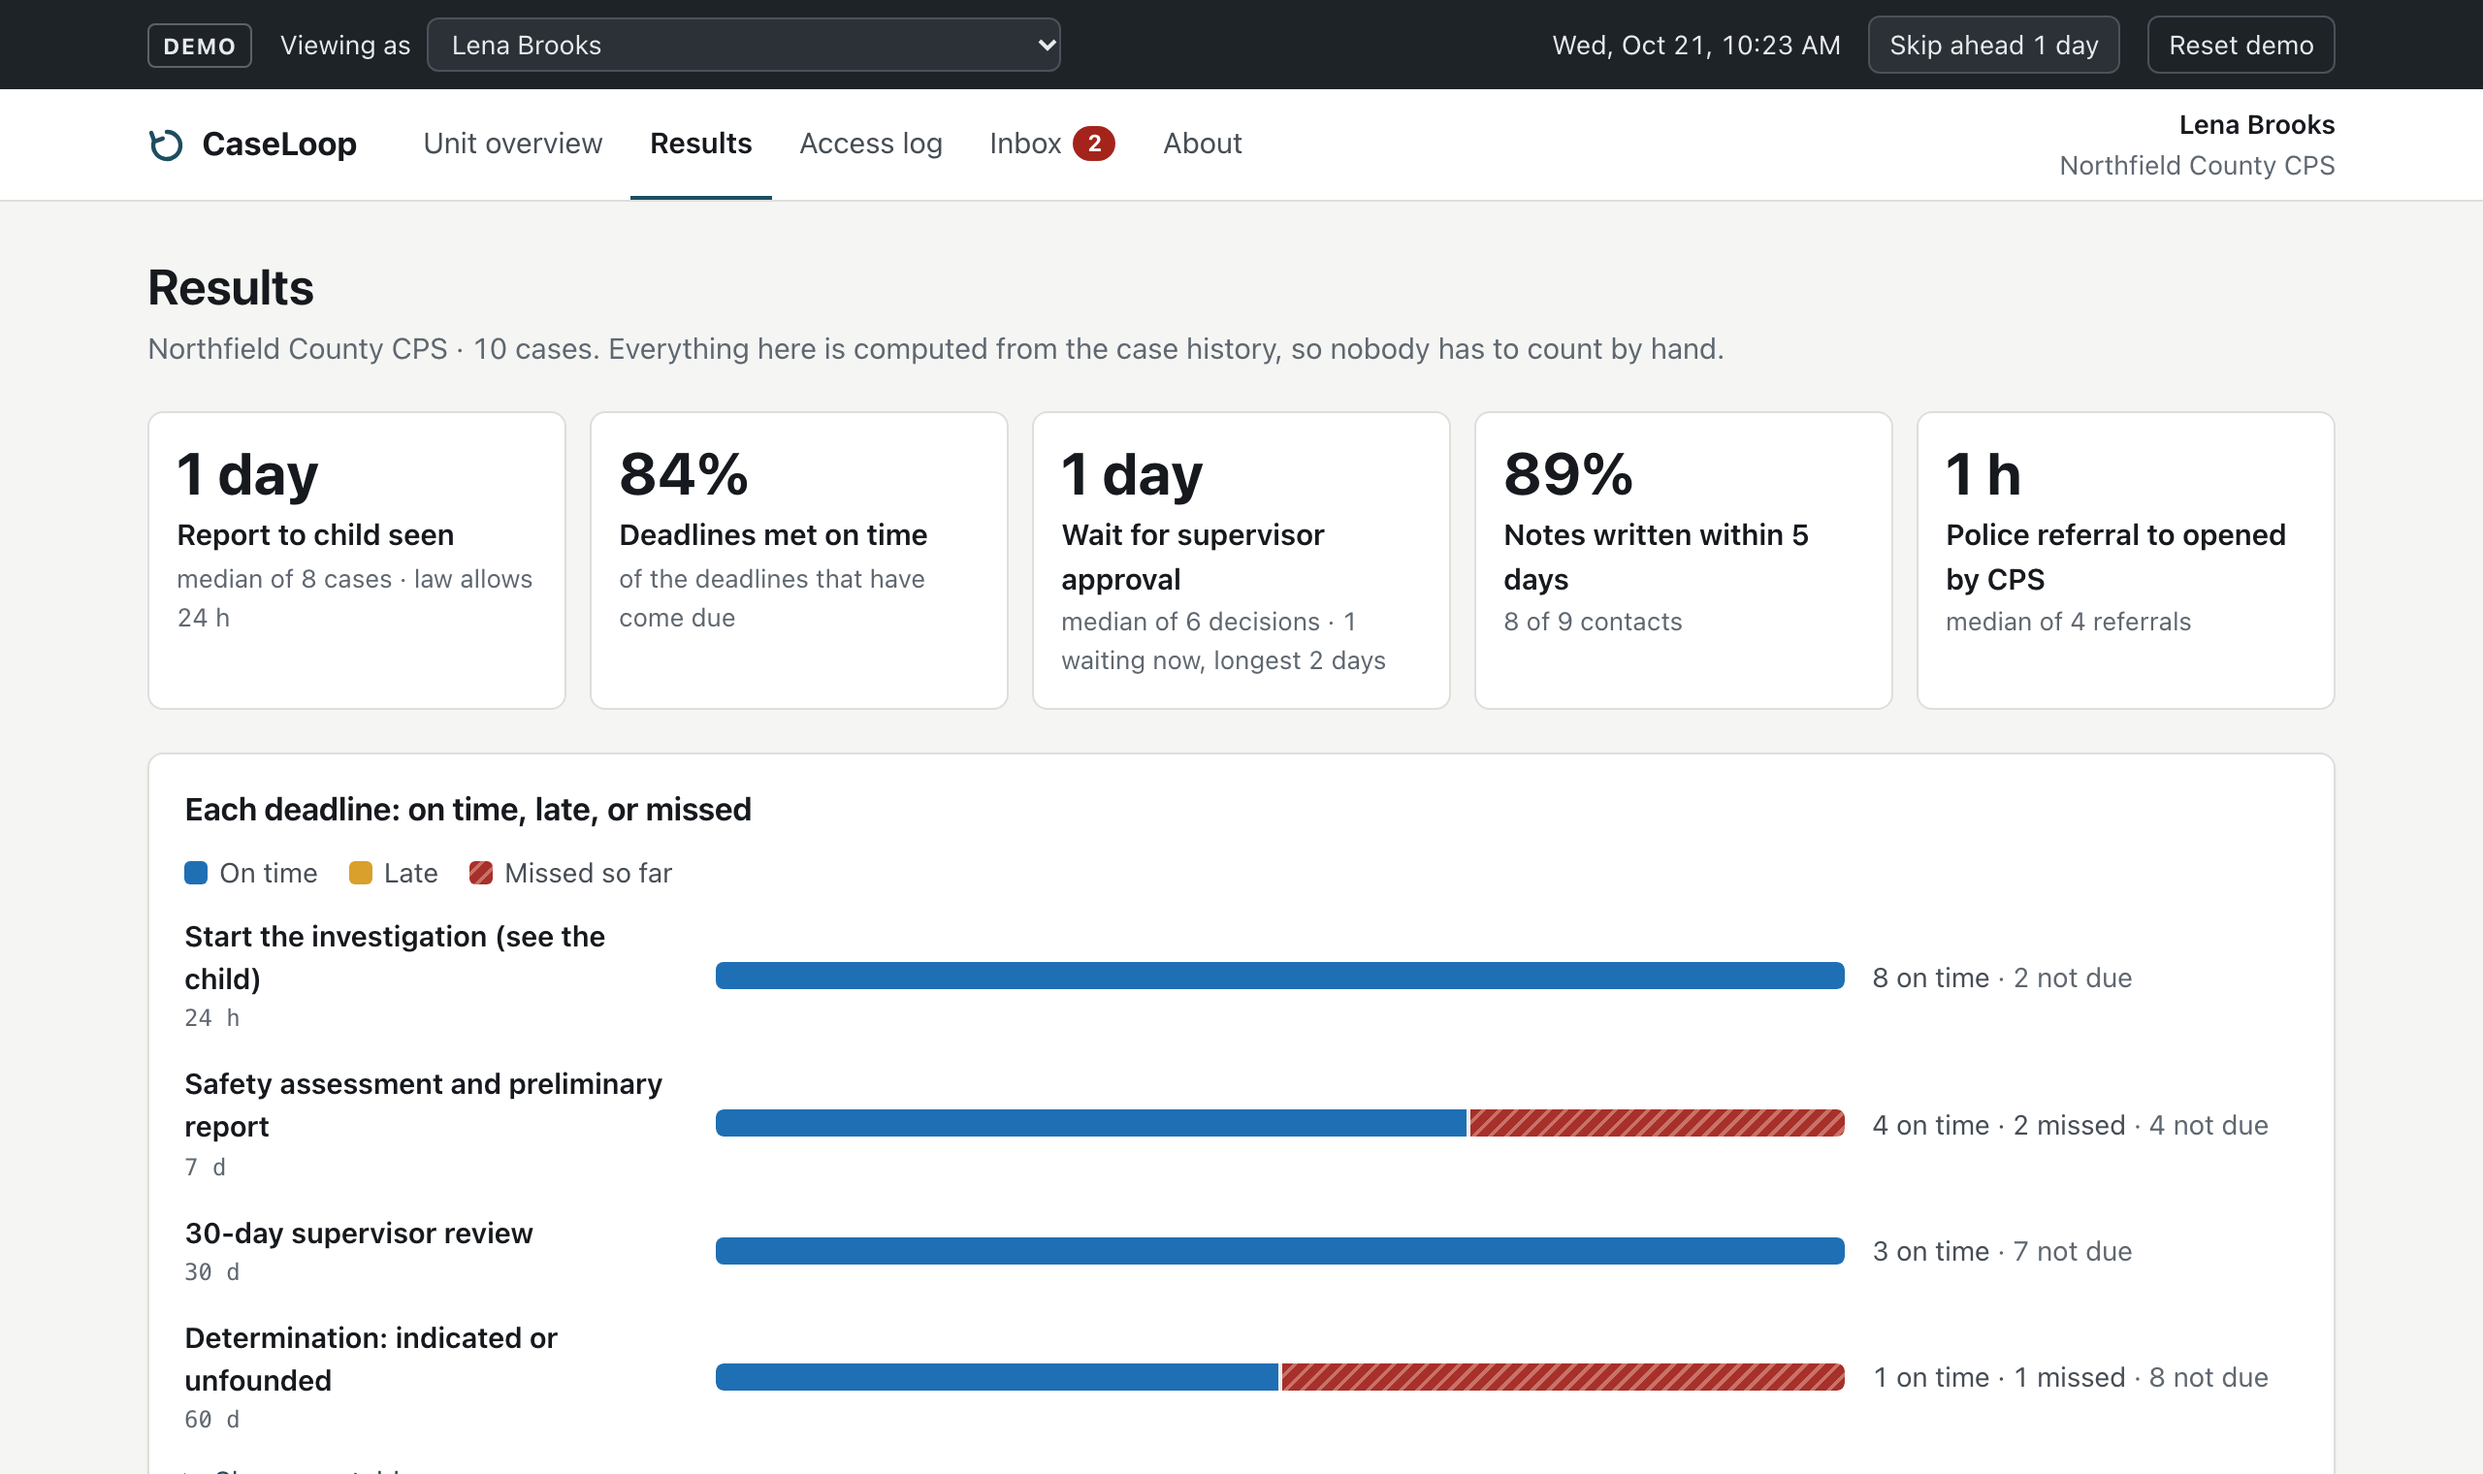
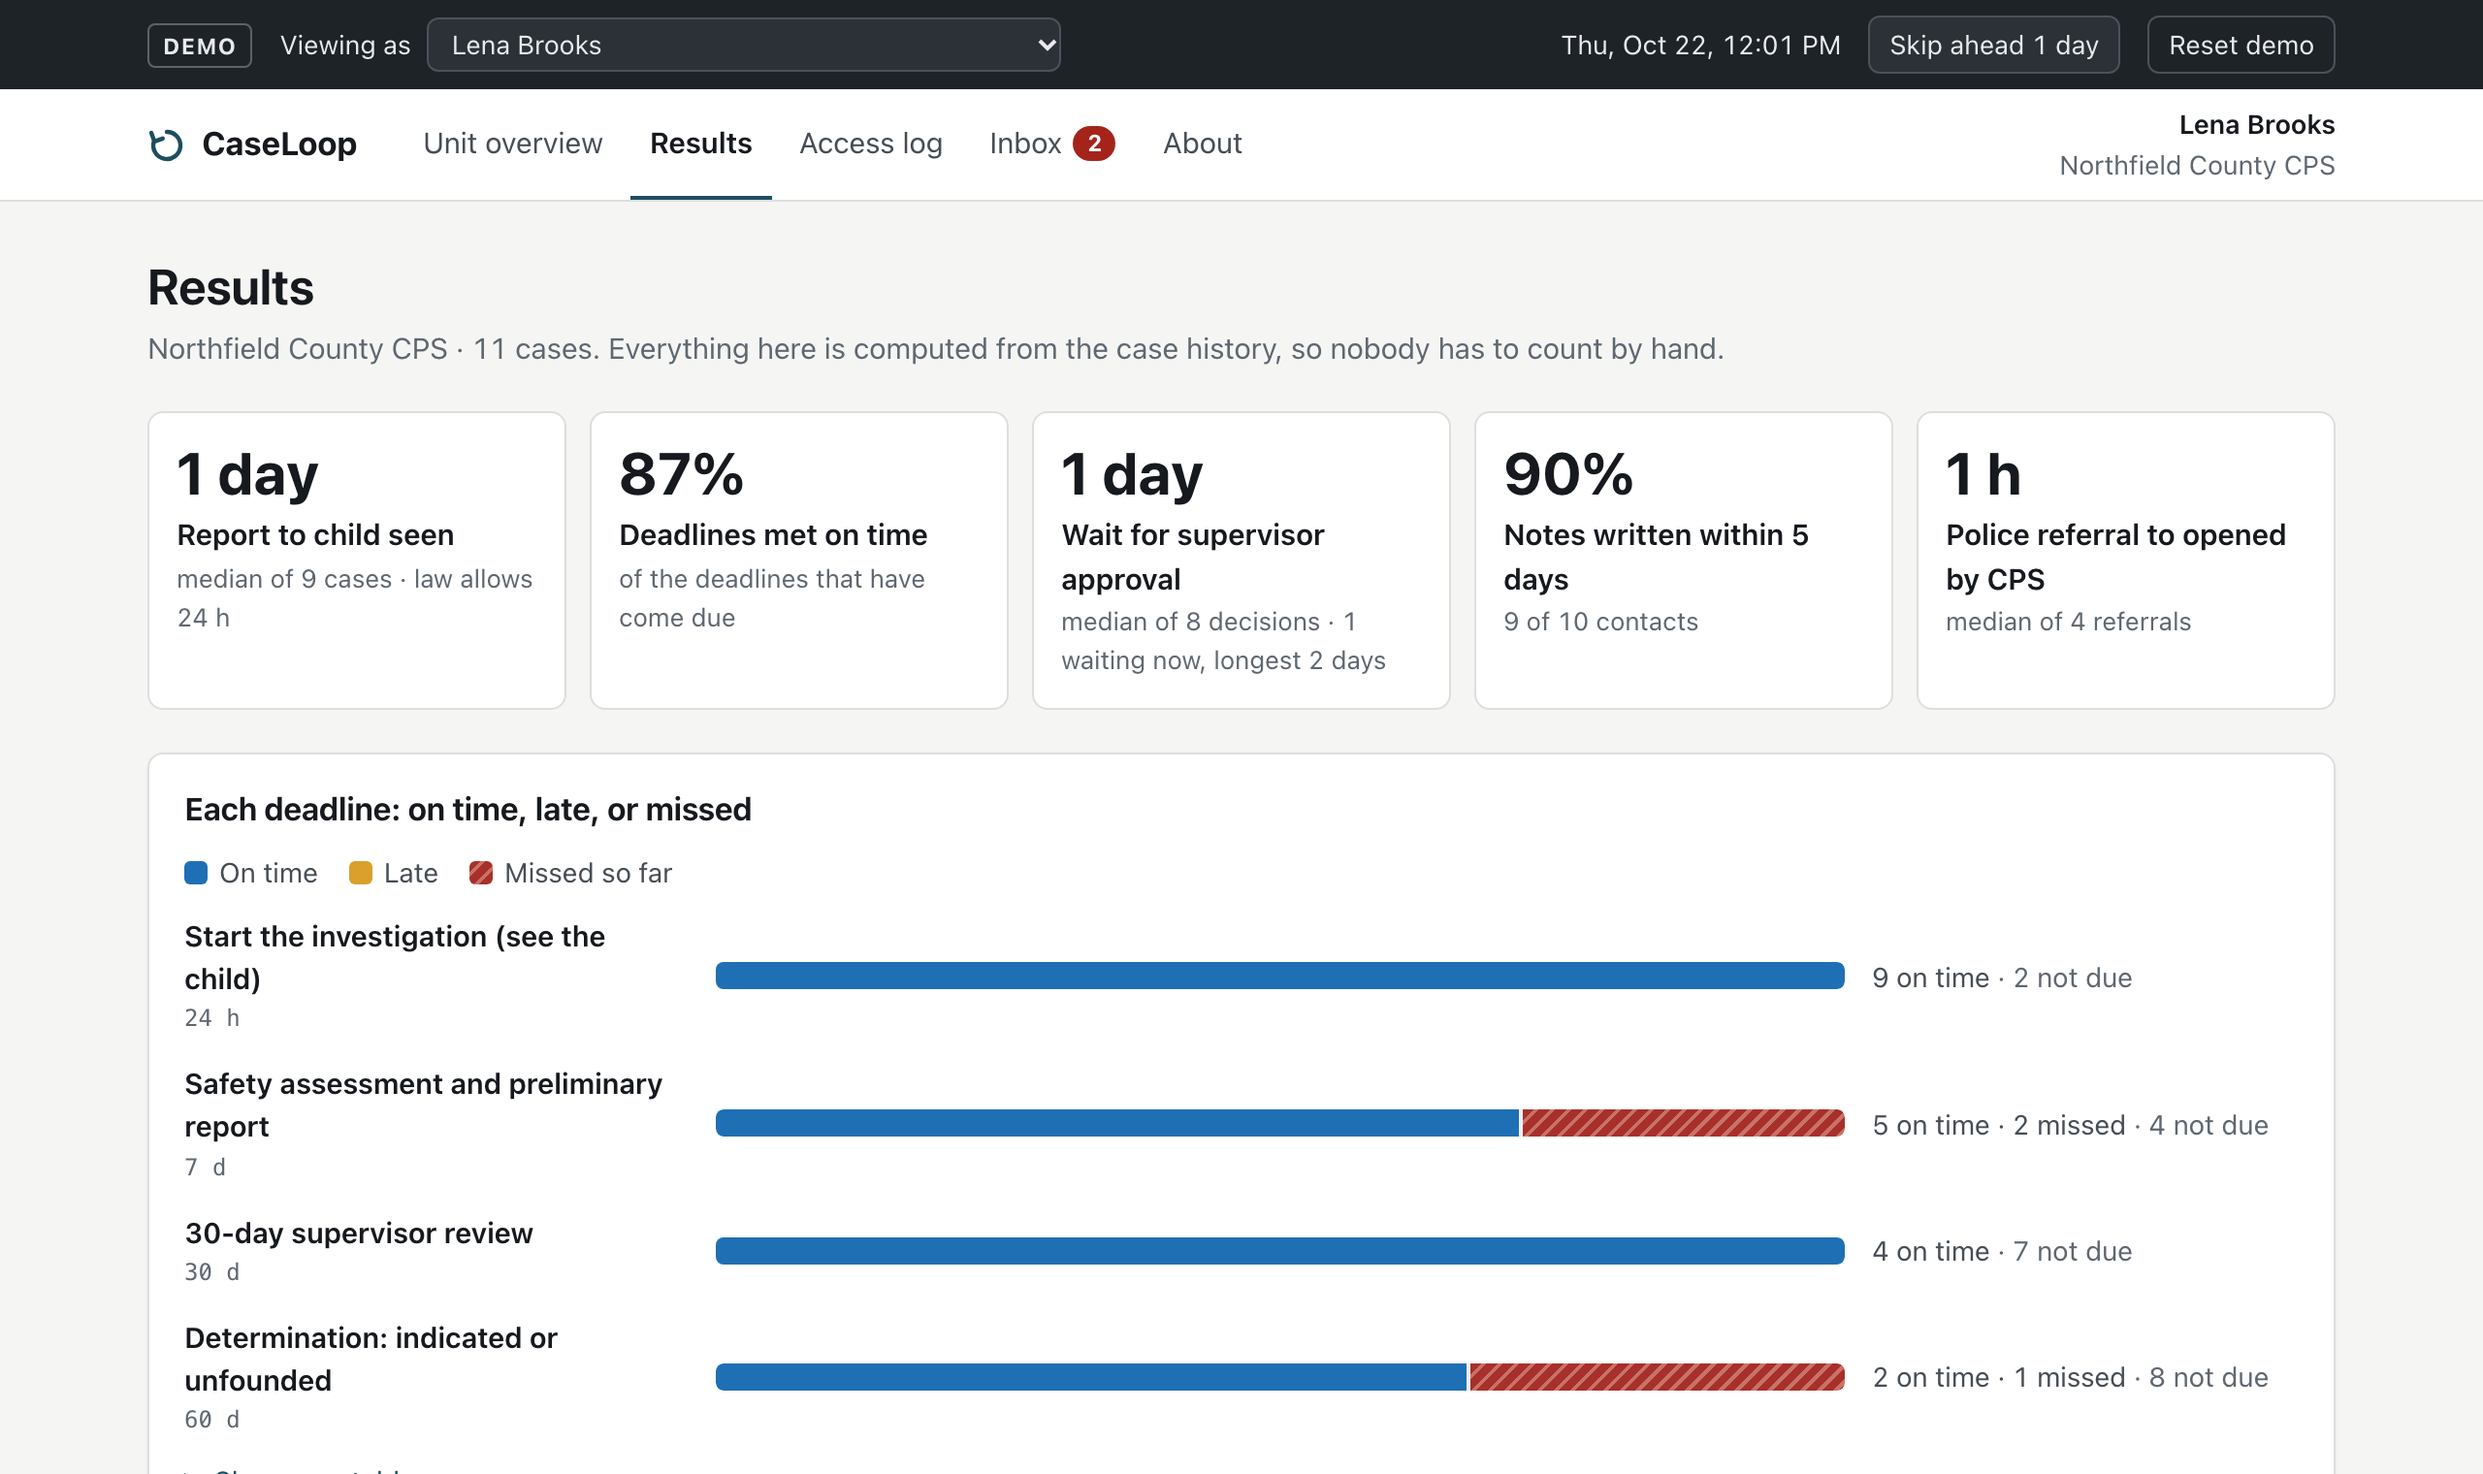
Document handoffs and FASP deadlines; refresh screenshots

diff --git a/docs/TEST-PLAN.md b/docs/TEST-PLAN.md
@@ -10,6 +10,7 @@ Three kinds of evidence, from cheapest to most convincing: the rules are right (
 | `matching.test.ts` | Jaro-Winkler matches Winkler's published reference values; address normalization; birth-date typo detection; **labelled pairs**: every “same person” pair is flagged (spelling variant, moved house, day/month swapped, last-name typo) and no “different person” pair is (sibling, similar name, **twins**). Every match explains itself. |
 | `policy.test.ts` | A caseworker sees only their own cases; a supervisor sees all; an officer sees status only, only for their agency. **The officer's view contains no notes, contacts, risk, history, staff names or outcome**, checked by serializing every view. Assigning from the queue counts as opening. Only the assigned worker can write; nobody writes to a closed case. |
 | `results.test.ts` | Each deadline counted once as on time, late, missed or not yet due; approval waits read from the log (a return and resend are two waits); notes still inside their window are left out of the rate. Inbox: a caseworker hears about returns with the reason; a supervisor hears about new reports (hotline included) and submissions; an officer hears only about their own referrals and nothing that names staff or the outcome; nobody is told about their own action or about anything that hasn't happened yet. |
+| `handoff.test.ts` | Indicated cases stay open and unfounded ones close; FASP clocks start at indication (Initial 7 days, Comprehensive 90) with their sources, and don't exist before indication; the officer still sees the investigation as closed; the new worker can send the Initial FASP. A handoff records from, to, by and when; lists the FASP due and the previous worker's untyped note; reaches the new worker's inbox with what's open; and puts "changed hands" in the case's reasons. Reassigning to the same person changes nothing. |
 | `priority.test.ts` | Every seeded event passes the same schema used to load saved data; each demo case lands in the tier its story says; ordering is missed deadline > risk > next due; reasons are specific (“waiting on supervisor for 2 days”, “overdue by 28 days”). |
 
 ## 2. Flows in a real browser (Playwright + axe, `npm run test:e2e`)
@@ -19,11 +20,13 @@ Runs against the production build, the same files that get deployed.
 - **The whole loop:** an officer fills in and sends a referral → the supervisor sees it as *not opened yet* and assigns it → the caseworker finds it, logs a home visit, and the 24-hour clock shows *Done* → the officer sees *waiting for: safety assessment done*, with no caseworker name or visit details.
 - **Approval reaches the worker:** a supervisor approves from the overview; the worker sees it approved, and the trail records who approved it.
 - **Privacy:** an officer can't see notes or staff names on their own referral, can't open a hotline case at all, and their status check appears in the access log.
+- **Handoff:** a supervisor reassigns an overdue case; the new worker's inbox says what's open, and the case opens with "You took this case over from Maria Rivera" listing the overdue safety assessment.
+- **FASP:** on the inherited, indicated case the new worker sees the Initial FASP and the previous worker's untyped note, and sends the FASP for approval.
 - **Inbox:** a supervisor returns work; the caseworker's inbox shows it as new with the reason, and opening the inbox clears the badge.
 - **Results:** the results page and its table view show the missed safety assessments.
 - **Validation:** an empty referral shows an error summary and marks invalid fields for screen readers.
 - **Time:** *Skip ahead 1 day* moves a case from *due soon* to *overdue*.
-- **Accessibility:** twelve pages across all three roles pass axe with WCAG 2.1 A/AA rules.
+- **Accessibility:** thirteen pages across all three roles pass axe with WCAG 2.1 A/AA rules.
 - **Phone:** no sideways scrolling on the landing page, the case list or a case page at Pixel 7 size.
 
 ## 3. A caseworker walkthrough (human, ~15 minutes)

diff --git a/README.md b/README.md
@@ -6,6 +6,10 @@
 
 ![A caseworker's case page: four legal deadlines with their sources, a safety assessment waiting on the supervisor, and what the referring police department can see](docs/screenshots/case.png)
 
+**New, from caseworker feedback:** when a case changes hands, the new worker sees everything still open, including FASP deadlines once a case is indicated.
+
+![The handoff panel: a case moved from James Chen to Maria Rivera, with the Initial FASP due in 2 days and a note the previous worker never typed up](docs/screenshots/handoff.png)
+
 ## Why this exists
 
 My cousin is a CPS caseworker in New York. I asked him how a case actually moves, from the State Central Register report to the day it closes, and where things fall through the cracks. He described seven problems. CaseLoop is a working answer to each of them, plus the one that sits between agencies: the officer who made the report never learns whether anyone acted on it.
@@ -20,6 +24,7 @@ My cousin is a CPS caseworker in New York. I asked him how a case actually moves
 | Attaching a photo takes four steps in two places. | Photos attach to the contact in the same step, from the camera. |
 | Workers keep private lists of due dates. | The list is the system. |
 | The referring officer never hears back. | The officer sees *opened, assigned, child seen, assessed, closed* with times, and never the notes, staff names or outcome. |
+| A worker inherits a case and doesn't know what the last worker left due. *Added the day after the caseworker tried the first version: he had just inherited a case with a FASP due that nobody told him about.* | When a case changes hands, the new worker gets an inbox message and a handoff panel listing everything still open: deadlines (including the Initial FASP, 7 days from indication, and the Comprehensive FASP, 90 days), notes the previous worker never typed up, and returned work. Indicated cases now stay open for services instead of closing. |
 | Nobody is told anything; people have to go look. | Each person has an inbox: assigned to you, sent to you, approved, returned (with the reason), deadline coming, referral not opened. Every notice is derived from the case history and the clock, so it can't fall out of sync. |
 | Nobody can say whether things are getting better. | A results page measures report-to-visit time, deadlines met, approval waits and note lag from the same history, with no extra data entry. |
 
@@ -48,6 +53,7 @@ My cousin is a CPS caseworker in New York. I asked him how a case actually moves
         ├── findMatches()          src/domain/matching.ts    Jaro-Winkler + birth-date + address rules, explained
         ├── accessTo() / agencyView()  src/domain/policy.ts  who sees what; the officer's view is built field by field
         ├── noticesFor()           src/domain/notifications.ts  each person's inbox, derived from events + clock
+        ├── latestHandoff()        src/domain/handoff.ts     what a worker inherits when a case changes hands
         └── results()              src/domain/metrics.ts     report-to-visit, deadlines met, approval waits, note lag
         │
         ▼

diff --git a/docs/DESIGN.md b/docs/DESIGN.md
@@ -67,7 +67,13 @@ A notice exists because an event happened (assigned, submitted, approved, return
 ### 7. Results come from the same history
 `results()` computes median report-to-visit time, the share of deadlines met on time (of those that have come due), supervisor approval waits (read from the log, so a return and resend count as two waits) and note lag. No one enters data to produce them. The chart colors were checked with a color-blindness validator, and *missed* also has stripes, so it never depends on telling red from amber.
 
-### 8. Accessibility and the field
+### 8. Handoffs and the FASP (added from caseworker feedback, 21 Oct 2026)
+After trying the first version, the caseworker said he had just inherited a case with a FASP due that nobody told him about. Two changes:
+
+- **Indicated cases stay open for services.** Before, any approved determination closed the case. Now only *unfounded* closes it; *indicated* starts the FASP clocks: the **Initial FASP within 7 days of the date of indication** and the **Comprehensive FASP within 90 days of the case initiation date**, both from the OCFS CPS Program Manual, ch. 8 (2025), citing 18 NYCRR 428.3(f). *Simplification:* the prototype uses the date of indication as the case initiation date. *Left out on purpose:* reassessment intervals, because published sources disagree (7 months vs 210 days). Those need confirming with OCFS before they become a deadline anyone relies on.
+- **A handoff is a first-class event.** Every assignment is kept in order, so “changed hands” is a fact, not a guess. `latestHandoff()` lists what the new worker inherits from the case as it stands: open deadlines, notes the previous worker logged but never typed, returned and pending submissions. The new worker sees it in the inbox (“moved to you from James Chen. Open now: Initial FASP due Sat · 1 note owed”) and at the top of the case. Reassigning to the same person is a no-op.
+
+### 9. Accessibility and the field
 Status is never shown by color alone (every pill has a word and an icon). All pages pass axe WCAG 2.1 AA in CI. The contact log is designed for a phone in a doorway: four fields, camera capture, under a minute.
 
 ## Data model (abridged)
